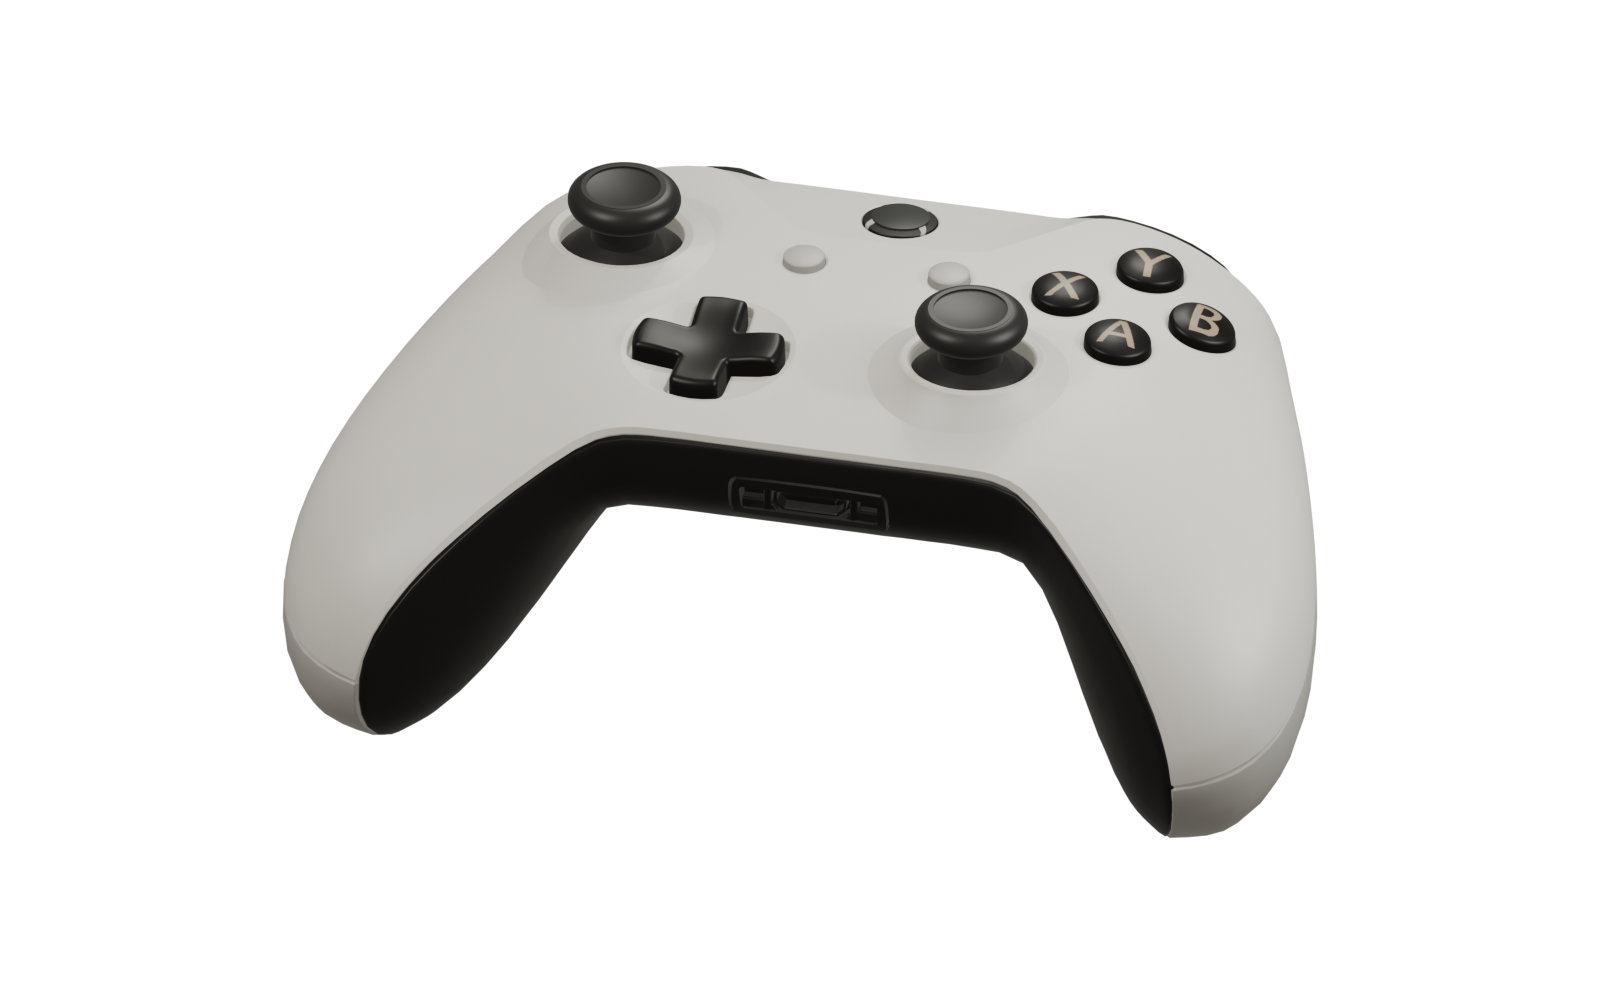
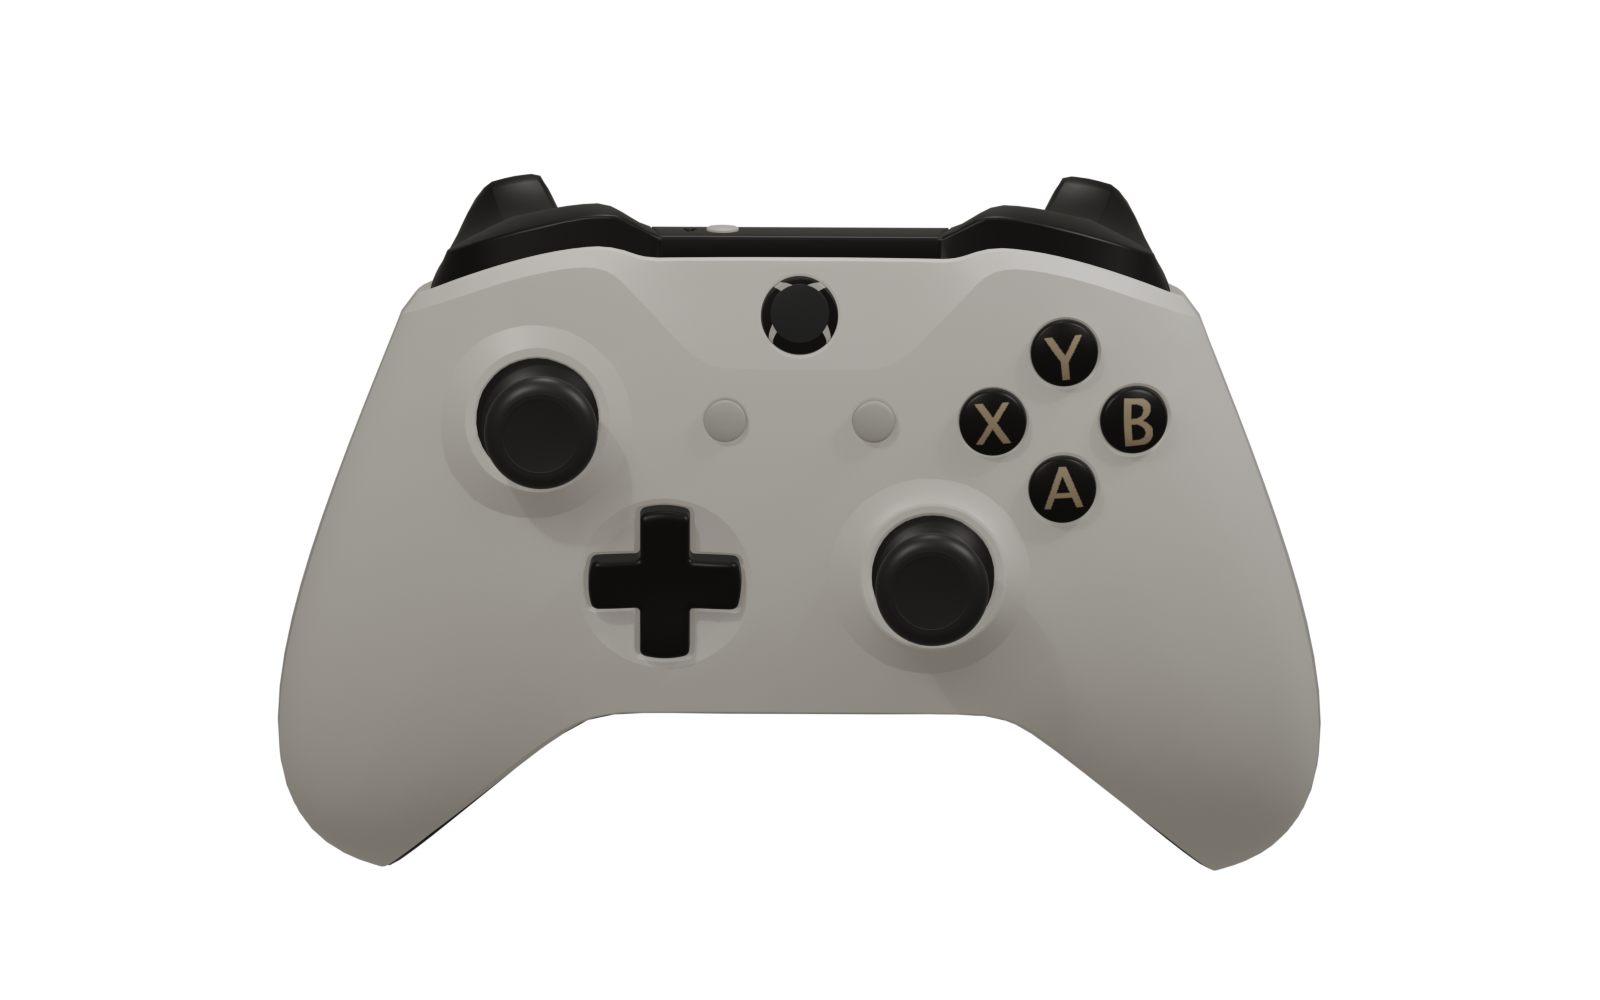
assets: add editable controller render source

diff --git a/app/Assets/Blender/render_controller_display.py b/app/Assets/Blender/render_controller_display.py
@@ -1,0 +1,59 @@
+from pathlib import Path
+
+import bpy
+from mathutils import Vector
+
+
+ASSETS_DIR = Path(__file__).resolve().parent.parent
+OUTPUT_BLEND = Path(__file__).resolve().parent / "controller-display.blend"
+OUTPUT_PNG = ASSETS_DIR / "controller.png"
+
+CONTROLLER_ROOT = "CREATRBOI White XBOX Controller (customized)"
+CONTROLLER_MESH = "node_id30"
+
+
+def world_bounds_center(obj: bpy.types.Object) -> Vector:
+    points = [obj.matrix_world @ Vector(corner) for corner in obj.bound_box]
+    return sum(points, Vector()) / len(points)
+
+
+controller = bpy.data.objects[CONTROLLER_ROOT]
+mesh = bpy.data.objects[CONTROLLER_MESH]
+scene = bpy.context.scene
+camera = scene.camera
+
+if camera is None:
+    raise RuntimeError("The controller scene does not have an active camera.")
+
+# Raise the rear shoulder shelf toward the viewer. This keeps the face controls
+# readable while exposing both trigger silhouettes and the bumper strip.
+controller.rotation_euler.x = 0.46
+bpy.context.view_layer.update()
+
+target = world_bounds_center(mesh)
+camera.location = target + Vector((0.0, -10.8, 7.5))
+camera.rotation_euler = (
+    target - camera.location
+).to_track_quat("-Z", "Y").to_euler()
+camera.data.lens = 55
+
+scene.render.engine = "BLENDER_EEVEE"
+scene.render.resolution_x = 1600
+scene.render.resolution_y = 1000
+scene.render.resolution_percentage = 100
+scene.render.film_transparent = True
+scene.render.image_settings.file_format = "PNG"
+scene.render.image_settings.color_mode = "RGBA"
+scene.render.filepath = str(OUTPUT_PNG)
+
+scene["agent_controller_view"] = "front-shoulder"
+scene["agent_controller_view_notes"] = (
+    "Front face preserved; LT/LB and RT/RB shoulder shelf exposed."
+)
+
+bpy.ops.file.pack_all()
+bpy.ops.wm.save_as_mainfile(filepath=str(OUTPUT_BLEND))
+bpy.ops.render.render(write_still=True)
+
+print(f"Saved Blender source: {OUTPUT_BLEND}")
+print(f"Rendered controller: {OUTPUT_PNG}")

diff --git a/app/Assets/Blender/README.md b/app/Assets/Blender/README.md
@@ -1,0 +1,22 @@
+# Controller display source
+
+`controller-display.blend` is the editable source for
+`../controller.png`. The model is derived from the CREATRBOI White XBOX
+Controller asset; attribution and license files are under
+`app/ThirdParty/CREATRBOI-White-XBOX-Controller/`.
+
+The display view intentionally tilts the controller forward so the normal face
+controls remain readable while the left and right bumper/trigger silhouettes
+are visible above the shell.
+
+Render from the repository root:
+
+```powershell
+& 'C:\Program Files\Blender Foundation\Blender 5.2\blender.exe' `
+  -b 'app\Assets\Blender\controller-display.blend' `
+  -P 'app\Assets\Blender\render_controller_display.py'
+```
+
+The source model does not contain four rear paddles. Four-back-button
+controllers are represented as a separate enhanced-controller capability in
+the interaction specification rather than being implied by the main image.